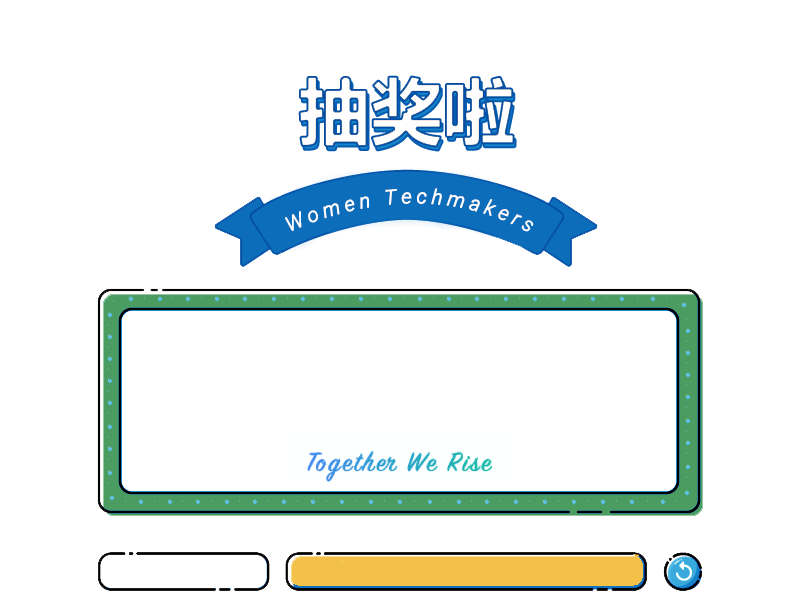
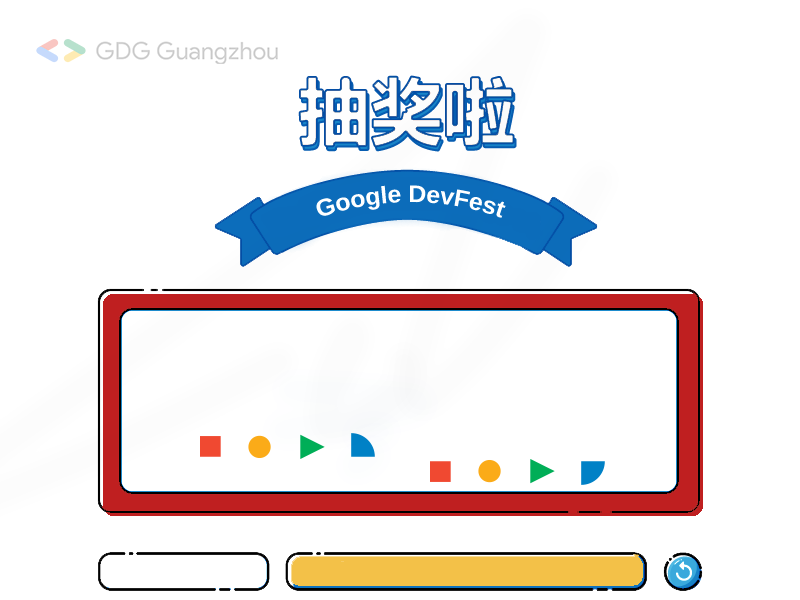
devfest

diff --git a/css/style.css b/css/style.css
@@ -166,7 +166,7 @@ body {
 body > div {
     background: url(img/bg.png) no-repeat;
     position: absolute;
-    top: 50%;
+    top: 40%;
     left: 50%;
     margin: -300px auto auto -400px;
     width: 800px;
@@ -343,8 +343,8 @@ body > div > footer > div > button#btnReset {
 
 .gdg {
     position: absolute;
-    right: 160px;
-    bottom: -90px;
+    right: 200px;
+    bottom: -120px;
 }
 
 .wtm {

diff --git a/index.html b/index.html
@@ -37,8 +37,7 @@
 </div>
 
 <div class="logo">
-<img class="wtm" height="100" src="css/img/wtm.png">
-<img class="gdg" height="50"src="css/img/gdg.png">
+<img class="gdg" height="100"src="css/img/gdg.png">
 </div>
 </body>
 </html>
